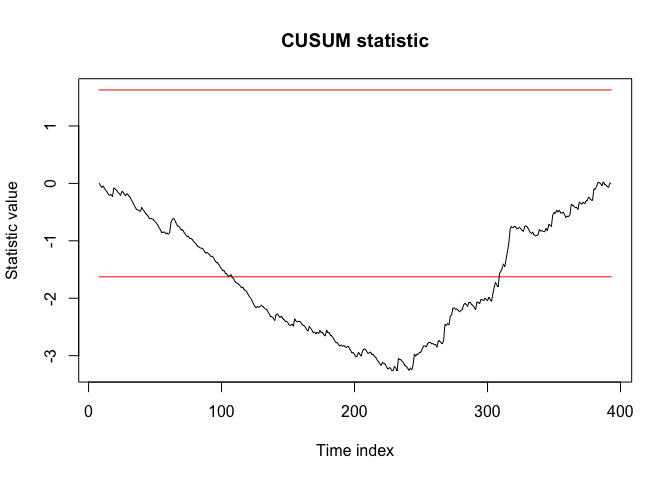
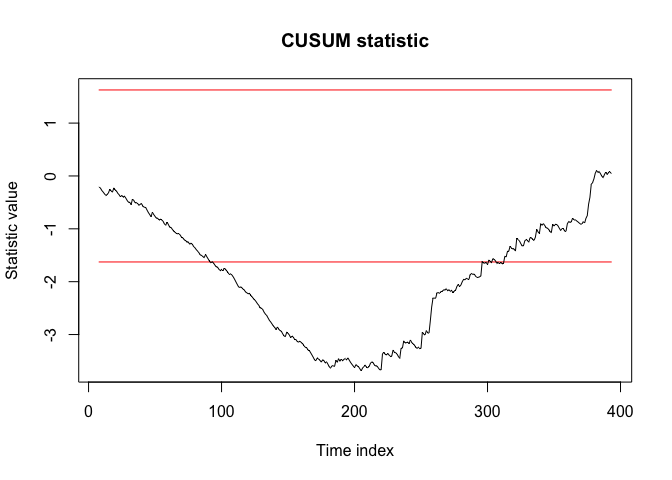
README

diff --git a/README.md b/README.md
@@ -8,11 +8,6 @@ VARCP
 #devtools::install_github("MasimovR/VARCP")
 ```
 
-Example
--------
-
-This is a basic example which shows you how to solve a common problem:
-
 ``` r
 library(VARCP)
 #> Loading required package: MTS
@@ -24,34 +19,34 @@ m2=VARMAsim(200, arlags = 1, phi=phi, sigma=sig*2)
 m <- rbind(m1$series, m2$series)  
 model <- VAR(m, p = 1)
 #> Constant term: 
-#> Estimates:  -0.01087932 0.007462765 
-#> Std.Error:  0.120823 0.06183162 
+#> Estimates:  -0.1353926 0.04900441 
+#> Std.Error:  0.1231221 0.06312115 
 #> AR coefficient matrix 
 #> AR( 1 )-matrix 
 #>        [,1]  [,2]
-#> [1,]  0.201 0.287
-#> [2,] -0.641 1.024
+#> [1,]  0.220 0.321
+#> [2,] -0.569 0.997
 #> standard error 
 #>        [,1]   [,2]
-#> [1,] 0.0484 0.0385
-#> [2,] 0.0248 0.0197
+#> [1,] 0.0482 0.0431
+#> [2,] 0.0247 0.0221
 #>   
 #> Residuals cov-mtx: 
 #>          [,1]     [,2]
-#> [1,] 5.777643 1.318246
-#> [2,] 1.318246 1.513118
+#> [1,] 5.754266 1.263857
+#> [2,] 1.263857 1.512403
 #>   
-#> det(SSE) =  7.004485 
-#> AIC =  1.966551 
-#> BIC =  2.006465 
-#> HQ  =  1.982357
+#> det(SSE) =  7.105433 
+#> AIC =  1.98086 
+#> BIC =  2.020774 
+#> HQ  =  1.996666
 ```
 
 ``` r
 CUSUM <- statcomp(model, type = "CUSUM")
 str(CUSUM)
 #> List of 2
-#>  $ values: Named num [1:386] 0.00488 -0.0395 -0.06952 -0.04279 -0.08888 ...
+#>  $ values: Named num [1:386] -0.206 -0.234 -0.275 -0.305 -0.339 ...
 #>   ..- attr(*, "names")= chr [1:386] "8" "9" "10" "11" ...
 #>  $ type  : chr "CUSUM"
 #>  - attr(*, "class")= chr "VARCD"
@@ -69,10 +64,10 @@ changetest(CUSUM)
 #>  CUSUM test
 #> 
 #> data:  CUSUM
-#> Estimated change point = 233, p-value = 1.111e-09
+#> Estimated change point = 206, p-value = 3.127e-12
 #> sample estimates:
-#>   C(h) 
-#> 3.2643
+#>     C(h) 
+#> 3.686745
 ```
 
 ``` r
